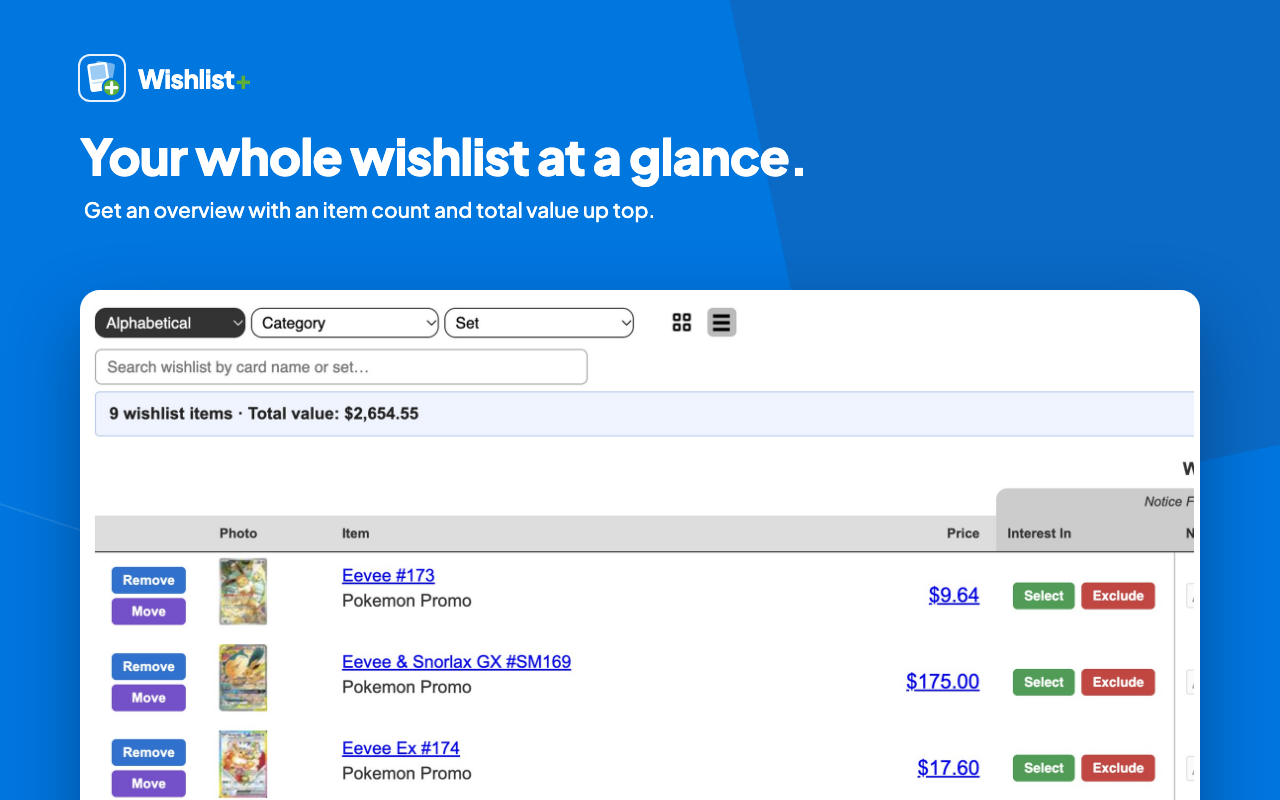
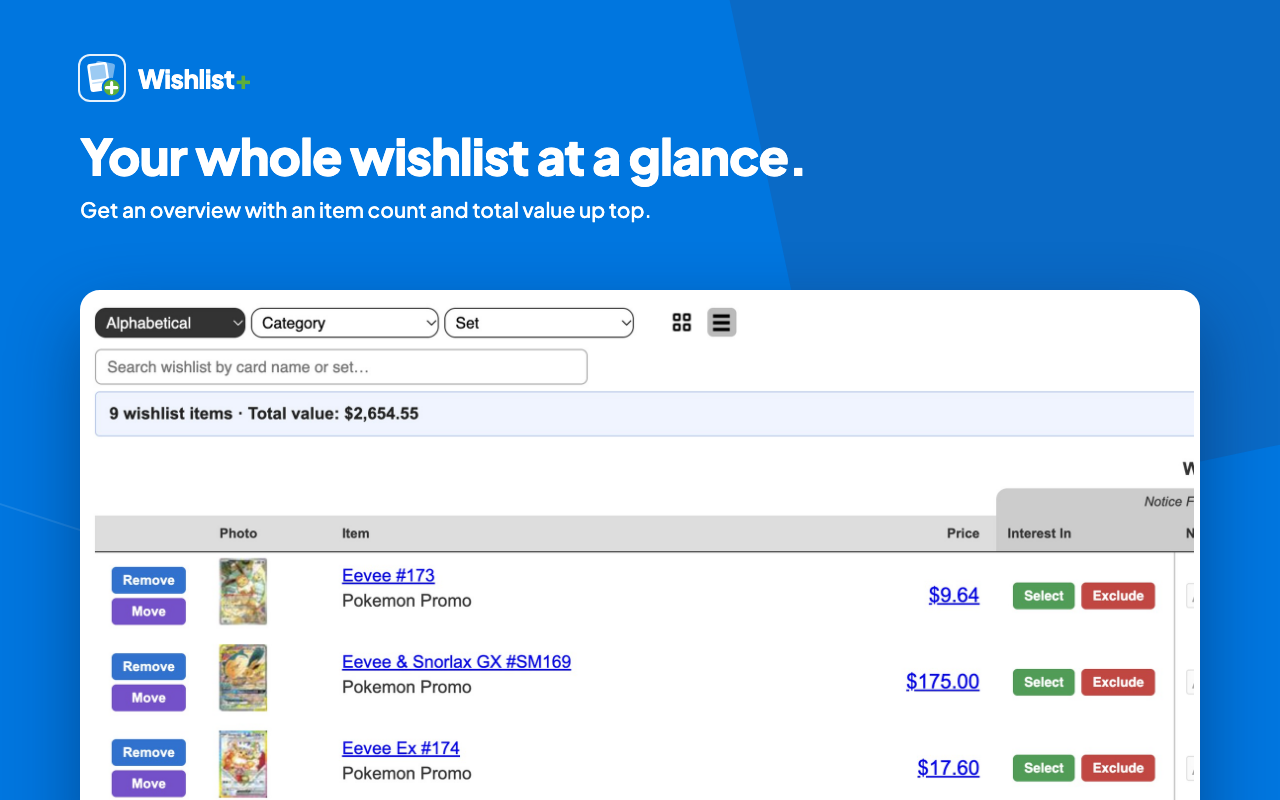
Store listing: 1.4.8 text is live; fix screenshot 1 and 2 subtitles
- docs/public/store-listing.md now holds the 1.4.8 listing as entered in the
  dashboard on 2026-11-23; the draft is removed (docs/drafts/ kept empty)
- Canvas: screenshot 1 subtitle reworded ("Big card images, like the grid
  view on PriceCharting's other pages."), stray leading space removed from
  screenshot 2's subtitle; store art re-exported

diff --git a/design/current/source/canvas/Shot2-Whole-wishlist.dc.html b/design/current/source/canvas/Shot2-Whole-wishlist.dc.html
@@ -27,7 +27,7 @@ a{color:#ffffff}a:hover{color:#e6f1fc}
 
   <div style="position: absolute; left: 80px; top: 128px; width: 1000px; display: flex; flex-direction: column; gap: 12px">
     <h1 style="margin: 0; font-size: 50px; font-weight: 800; line-height: 1.1; letter-spacing: -1px">Your whole wishlist at a glance.</h1>
-    <p style="margin: 0; font-size: 21px; font-weight: 500; line-height: 1.45">&nbsp;Get an overview with an item count and total value up top.</p>
+    <p style="margin: 0; font-size: 21px; font-weight: 500; line-height: 1.45">Get an overview with an item count and total value up top.</p>
   </div>
 
   <div style="position: absolute; left: 80px; top: 290px; width: 1120px; height: 560px; box-sizing: border-box; border: 6px solid #ffffff; border-radius: 20px; overflow: hidden; background: #ffffff; box-shadow: 0 30px 70px rgba(0,30,70,0.45)">

diff --git a/design/current/source/canvas/Shot1-Grid.dc.html b/design/current/source/canvas/Shot1-Grid.dc.html
@@ -27,7 +27,7 @@ a{color:#ffffff}a:hover{color:#e6f1fc}
 
   <div style="position: absolute; left: 80px; top: 128px; width: 1000px; display: flex; flex-direction: column; gap: 12px">
     <h1 style="margin: 0; font-size: 50px; font-weight: 800; line-height: 1.1; letter-spacing: -1px">See cards in grid view</h1>
-    <p style="margin: 0; font-size: 21px; font-weight: 500; line-height: 1.45">Big card images, similar to how other page's view options</p>
+    <p style="margin: 0; font-size: 21px; font-weight: 500; line-height: 1.45">Big card images, like the grid view on PriceCharting's other pages.</p>
   </div>
 
   <div style="position: absolute; left: 80px; top: 290px; width: 1120px; height: 560px; box-sizing: border-box; border: 6px solid #ffffff; border-radius: 20px; overflow: hidden; background: #ffffff; box-shadow: 0 30px 70px rgba(0,30,70,0.45)">

diff --git a/docs/public/store-listing.md b/docs/public/store-listing.md
@@ -1,48 +1,50 @@
 # Chrome Web Store listing (live)
 
-The listing for **1.4.6**, the version live on the [store](https://chromewebstore.google.com/detail/opfopmnimlhgjgnoegkghpdpdgabjhcf). At that point the extension was still called "Wishlist Grid View for PriceCharting". The store's name, summary and icon come from `extension/manifest.json`; everything else here is pasted into the dashboard by hand.
+The listing text for **1.4.8**, as entered in the Chrome Web Store dashboard on 2026-11-23 ([store page](https://chromewebstore.google.com/detail/opfopmnimlhgjgnoegkghpdpdgabjhcf)). The store's name, summary and icon come from `extension/manifest.json`; everything else here is pasted into the dashboard by hand.
 
-The dashboard is the source of truth. If it was edited there, copy the change back here. The next version's text is in [../drafts/](../drafts/).
+The dashboard is the source of truth. If it's edited there, copy the change back here. Text for a future version goes in [../drafts/](../drafts/) first.
+
+**Images:** the store art in `design/current/store-listing/`: the 440×280 small promo tile, the 1400×560 marquee promo tile and screenshots 1–4. The older plain screenshots are in `design/drafts/store-listing-v1/`.
 
 ## Store listing tab
 
-**Summary** (from the manifest `description`, 132 characters max):
+**Summary** (manifest `description`, 128 of 132 characters; Chrome takes it from the manifest):
 
-> Sorts your whole PriceCharting wishlist by price, adds grid view, search, totals, Select/Exclude lists, and move-to-collection.
+> Loads your whole PriceCharting wishlist at once to fix sorts and adds grid view, search, totals, Select/Exclude lists, and more.
 
-**Description** (copied from the live listing on 2026-11-22):
+**Description** (as entered in the dashboard on 2026-11-23):
 
 > THIS IS AN INDEPENDENT PROJECT, NOT AFFILIATED WITH OR ENDORSED BY PRICECHARTING
 >
 >
-> Wishlist Grid View for PriceCharting makes your PriceCharting.com wishlist easier to browse, sort and manage.
+> Wishlist+ for PriceCharting makes your PriceCharting.com wishlist easier to browse, sort and manage.
 >
-> Currently, PriceCharting shows your wishlist 200 items at a time and sorts each 'page' separately (even though the wishlist is one infinite scrolling page), so “Price: low to high” starts over on every page. This extension loads your entire wishlist and sorts all of it at once, then adds tools the wishlist page doesn’t have.
+> Currently, PriceCharting shows your wishlist 200 items at a time and sorts each 'page' separately (even though the wishlist is one infinite scrolling page), so “Price: low to high” starts over on every page. Wishlist+ loads your entire wishlist and sorts all of it at once, then adds tools the wishlist page doesn’t have.
 >
 > FEATURES
 > • Whole-wishlist price sort: Sorting now sorts every card, not just within intervals of 200 items. Items without a price go last.
 > • Grid view: switch between the normal list and a grid view with larger images, using the icons next to the filters. Your choice is remembered.
 > • Totals at a glance: a box at the top always shows how many items are in your wishlist and their combined value.
 > • Search: filter by card name or set. Every word you type must match, and the totals update to match. Press Esc to clear.
-> • Select / Exclude: mark cards green to build a list and see its total, or mark car red to see what the rest of your wishlist is worth. Picks are remembered between visits.
+> • Select / Exclude: mark cards green to build a list and see its total, or mark cards red to see what the rest of your wishlist is worth. Picks are remembered between visits.
+> • Select a range: click Select (or Exclude) on one card, then hold Shift and click another card’s button. Every card in between is picked too, and while you hold Shift the cards that will change are outlined.
+> • Show only what you picked: show only your selected or excluded cards to review them, or hide the excluded ones to see what’s left.
 > • Move to collection: move a card from your wishlist to your collection with one button: click once, then again to confirm. It uses your PriceCharting default condition and only removes the card from your wishlist if the add succeeds.
 > • Small fixes: the tiny “-” button is relabeled “Remove”, and the Set filter’s leftover “Type part of console” hint now reads “Type part of set”.
 >
 > HOW TO USE
-> Sign in to PriceCharting and open your wishlist (Collection → Wishlist). The extension starts automatically.
+> Sign in to PriceCharting and open your wishlist (Collection → Wishlist). Wishlist+ starts automatically.
 >
 > PRIVACY
 > The extension runs only on PriceCharting wishlist pages and requests no browser permissions. Everything happens in your browser. It talks only to PriceCharting.com, using your existing sign-in, and sends nothing to the developer or anyone else. No analytics, tracking or ads. Your view setting and Select/Exclude picks are stored only in your browser.
 
 **Category:** Functionality & UI
 
-**Images:** the plain 1280×800 screenshots in `design/drafts/store-listing-v1/`. The new art in `design/current/store-listing/` isn't uploaded yet.
-
 ## Privacy practices tab
 
 **Single purpose description:**
 
-> Improves the PriceCharting.com wishlist page: loads the whole wishlist so it can be sorted by price across all pages, and adds a grid view, search, item and value totals, Select/Exclude running totals, and a button to move a card from the wishlist to the user's PriceCharting collection.
+> Improves the PriceCharting.com wishlist page: loads the whole wishlist so it can be sorted by price across all pages, and adds a grid view, search, item and value totals, Select/Exclude lists with range selection and filters, and a button to move a card from the wishlist to the user's PriceCharting collection.
 
 **Permission justification.** The manifest requests no `permissions` or `host_permissions`. If the dashboard asks about host access for the content script:
 
@@ -59,6 +61,7 @@ Tick all three certifications:
 
 **Privacy policy URL:** https://gist.github.com/anmokhta/0dbdab84b479a030717f3584833156b9 (source: [privacy-policy.md](privacy-policy.md))
 
+
 ## Test instructions (for Google's reviewers)
 
 The test account's login is typed into the dashboard only. **Never put it in this repo.**
@@ -69,6 +72,7 @@ The test account's login is typed into the dashboard only. **Never put it in thi
 > 2. Open **Collection → Wishlist** (or https://www.pricecharting.com/wishlist).
 > 3. The extension loads the whole wishlist and shows a blue box with the total item count and value. With "Price: high to low" selected, every card is sorted by price.
 > 4. Use the grid/list icons next to the filters to switch views. The search box filters by card name or set.
-> 5. Click **Select** or **Exclude** on a few cards: a yellow panel shows the running total. Click **Clear** to reset.
-> 6. **Move** (list view) / **Move to collection** (grid view): click once, then again to confirm. The card is added to the account's collection and removed from the wishlist. Feel free to try it; the account exists only for review.
-> 7. The extension requests no permissions and only runs on pricecharting.com/wishlist pages.
+> 5. Click **Select** or **Exclude** on a card, then hold **Shift**: the cards between it and the pointer are outlined. Shift-click another card's button to pick the whole range. A yellow panel shows the running total.
+> 6. In the yellow panel, click **Show only selected** (or, in Exclude mode, **Show only excluded** / **Hide excluded**), then **Show all**. Click **Clear** to reset.
+> 7. **Move** (list view) / **Move to collection** (grid view): click once, then again to confirm. The card is added to the account's collection and removed from the wishlist. Feel free to try it; the account exists only for review.
+> 8. The extension requests no permissions and only runs on pricecharting.com/wishlist pages.

diff --git a/docs/README.md b/docs/README.md
@@ -17,7 +17,7 @@ Text written for an upcoming release, not published yet. When that version is su
 
 | File | What it is |
 |---|---|
-| `store-listing-1.4.8.md` | Store listing for 1.4.8: the new name and icon from 1.4.7, plus shift-click ranges, "Show only" / "Hide excluded" and the search fix. Lists exactly what changes from `public/store-listing.md`. |
+| *(none right now)* | The 1.4.8 store listing was entered in the dashboard on 2026-11-23 and is now `public/store-listing.md`. |
 
 ## internal/ — developers only
 
